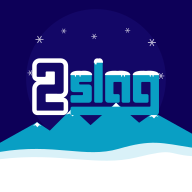
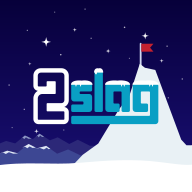
App-icoon C3: 2slag in een sterrennacht met La Meije
Het woordmerk midden in een sterrenhemel, La Meije rechts boven het logo uit met het rode vlaggetje, en onderaan een bergengordel met sneeuwkapjes en een witte sneeuwgolf. public/logo.svg en de maskable-iconen worden gemaakt met scripts/icoon/maak-icoon.mjs; app-iconen, favicon en iOS-splashes maakt de build daaruit zoals voorheen.

diff --git a/vite.config.ts b/vite.config.ts
@@ -53,7 +53,8 @@ export default defineConfig({
         scope: base,
         background_color: '#0d0058',
         theme_color: '#0d0058',
-        // Icoon: het 2slag-winterlogo (public/logo.svg, gemaakt via mockups/icoon.html, richting A)
+        // Icoon: 2slag in een sterrennacht met La Meije (public/logo.svg en maskable-wispo-*.png,
+        // gemaakt met scripts/icoon/maak-icoon.mjs)
         icons: [
           { src: 'pwa-64x64.png', sizes: '64x64', type: 'image/png' },
           { src: 'pwa-192x192.png', sizes: '192x192', type: 'image/png' },

diff --git a/README.md b/README.md
@@ -131,7 +131,7 @@ De schermen naast Home kunnen een kleine versie van de Home-kop krijgen: donkerb
 
 **Pistekaart:** `public/img/pistekaart.webp` is de officiële kaart van Les 2 Alpes voor winter 2025-2026 (`2026-Plan_Hiver.jpg` van les2alpes.com), als WebP (kwaliteit 75) ca. 1,1 MB: dat scheelt bij de eerste keer openen via de QR-code. Komt de kaart voor 2026-2027 uit, zet hem dan om en houd de naam `pistekaart.webp` aan, bijvoorbeeld met `node -e "require('sharp')('nieuw.jpg').webp({quality:75}).toFile('public/img/pistekaart.webp')"`. Groot mag (tot 25 MB), maar hoe kleiner, hoe sneller. De kaart wordt automatisch op de telefoon bewaard voor offline gebruik. Let op: de kaart is van Les 2 Alpes en via de openbare URL voor iedereen te zien.
 
-**Logo / app-icoon:** het app-icoon (`public/logo.svg`) en het woordmerk bovenaan Home (`public/img/2slag-wit.svg`) zijn winterversies van het officiële 2slag-logo uit de huisstijl, met sneeuw op de letters, sneeuwvlokken en besneeuwde bergen. Een ander icoon? Vervang `public/logo.svg` (vierkant). Bij elke build worden daaruit automatisch de app-iconen, de favicon en de splashscreens voor iPhone gemaakt. De achtergrondkleur en de ruimte rond het logo stel je in met `ACHTERGROND` en `padding` in `pwa-assets.config.ts`. Heeft je logo een transparante achtergrond, zet dan bij `transparent` de `padding` op bijvoorbeeld `0.1`. Heb je alleen een PNG, zet dan in `pwa-assets.config.ts` `images: ['public/logo.png']` en pas in `index.html` en `src/screens/Home.tsx` `logo.svg` aan naar `logo.png`.
+**Logo / app-icoon:** het app-icoon (`public/logo.svg`) en het woordmerk bovenaan Home (`public/img/2slag-wit.svg`) zijn winterversies van het officiële 2slag-logo uit de huisstijl, met sneeuw op de letters. Het app-icoon zet het logo in een sterrennacht met La Meije en het rode vlaggetje; `public/logo.svg` en de maskable-iconen (`public/maskable-wispo-*.png`) maak je opnieuw met `node scripts/icoon/maak-icoon.mjs`. Een ander icoon? Vervang `public/logo.svg` (vierkant) en de maskable-iconen. Bij elke build worden daaruit automatisch de app-iconen, de favicon en de splashscreens voor iPhone gemaakt. De achtergrondkleur en de ruimte rond het logo stel je in met `ACHTERGROND` en `padding` in `pwa-assets.config.ts`. Heeft je logo een transparante achtergrond, zet dan bij `transparent` de `padding` op bijvoorbeeld `0.1`. Heb je alleen een PNG, zet dan in `pwa-assets.config.ts` `images: ['public/logo.png']` en pas in `index.html` en `src/screens/Home.tsx` `logo.svg` aan naar `logo.png`.
 
 **Kleuren en lettertypen:** die volgen de Tweeslag-stijlgids (donkerblauw `#0d0058`, lichtblauw `#099fc4`, Trebuchet MS voor titels en Georgia voor tekst). Alles staat in `src/styles/theme.css`, bovenaan de clubkleuren. De app staat altijd in de lichte stand, ook als de telefoon op donker staat.
 
